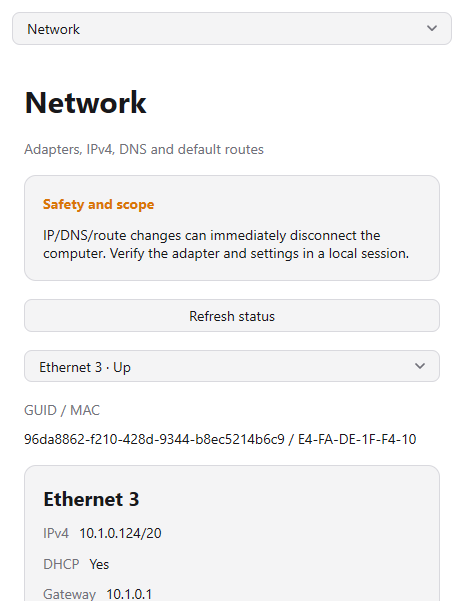
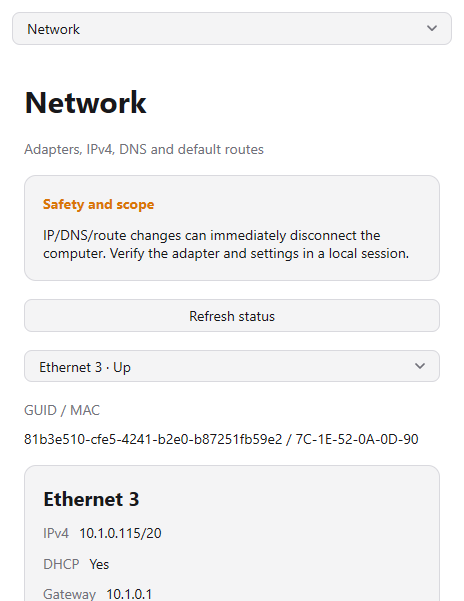
docs: verify v1.12.2 release packages and refresh tag screenshots

Changed region(s): [[0.0302, 0.7188, 0.9052, 0.7488], [0.2716, 0.8686, 0.3017, 0.8985]]

diff --git a/docs/AUDIT.md b/docs/AUDIT.md
@@ -1,7 +1,18 @@
 # Current audit and validation / 当前审计与验证
 
-当前发布版本：**1.12.1**。Windows 候选和正式发布验证均通过；历史版本记录保留。本页区分新增功能的源码审查、候选验证与发布下载校验。
+当前发布版本：**1.12.2**。Windows 候选和正式发布验证均通过；历史版本记录保留。本页区分新增功能的源码审查、候选验证与发布下载校验。
 This page summarizes the current implementation and completed validation.
+
+## Verified release 1.12.2 / 简化界面与关闭选择发布
+
+[Successful tag workflow](https://github.com/logdns/Win-XinAi-De-Tools/actions/runs/39018090724) and [published v1.12.2 release](https://github.com/logdns/Win-XinAi-De-Tools/releases/tag/v1.12.2), verified 2026-10-17:
+
+- Immutable tag commit: `bd7fbe21ff4f92f84a07e5135c2c1d8a8628332c`. This adds only candidate validation documentation and real screenshots to the tested source. Earlier tags remain unchanged; post-release screenshots/records do not retarget this tag.
+- All release gates pass again: 154 .NET tests on Windows x64 and native ARM64, 2 opted-in x64 firewall integration tests, 38 Go test functions, 13 installer contracts, 420 bilingual resources, native helpers and pinned-Go/NuGet dependency checks. All ten packages build.
+- Both actual x64 installer lifecycles, native ARM64 MyGo Start Menu and real Finish-page launch, default-Cancel and explicit-Exit/engine cleanup, independent shortcut/reinstall/uninstall cases, and side-by-side preservation pass. Both MyGo native architectures verify work-area fit, native controls, busy veto, maximized-state preservation, Cancel/hide/show/Exit HWND interaction, 144 view combinations, 20 scrolled captures and four bilingual compact/standard close-choice captures. WinUI repeats 180 native view combinations.
+- Release is latest, neither draft nor prerelease, with exactly 11 non-empty assets: five portable ZIPs, five EXE installers and SHA256SUMS.txt. Downloaded every asset and ran `python3 scripts/verify-release.py artifacts/release-v1.12.2 1.12.2`: all ten SHA-256 hashes, five ZIP CRCs, frontend/engine PE architectures and administrator manifests, version/production identifiers, complete runtimes, documentation and original licenses pass. Checksums do not replace code signing.
+- Both READMEs now use the tag run's actual Windows captures, including the uncluttered overview, compact layout and on-demand close dialog. Native content captures exclude the OS title bar. No invented host state or mockup is presented as a real screenshot.
+- This is focused source review plus functional/package validation, not a full penetration test. No real network reset, Hyper-V mutation or reboot is performed. Physical devices, mixed-monitor DPI, accessibility, secure-desktop UAC and recovery remain manual acceptance.
 
 ## 1.12.2 focused chrome and close-flow review / 窗口简化专项复核
 

diff --git a/docs/MYGO.md b/docs/MYGO.md
@@ -98,3 +98,6 @@ Regression coverage adds close-choice transitions, native default-Cancel/hide/ex
 
 
 The v1.12.2 [completed Windows candidate](https://github.com/logdns/Win-XinAi-De-Tools/actions/runs/39017169207) verifies the new close flow on both x64 and native ARM64, including installed Start Menu/Finish launches and engine cleanup. Actual bilingual screenshots cover standard and compact dialogs. Canceling X preserves a maximized window. Localized buttons wrap within a bounded native dialog; backdrop clicks, Enter and Escape cancel safely. See AUDIT.md for the complete validation and remaining physical-device limits.
+
+
+v1.12.2 is published for both editions. Its [successful tag workflow](https://github.com/logdns/Win-XinAi-De-Tools/actions/runs/39018090724) repeats the native x64/ARM64 close, installer and cleanup gates. Both READMEs now use that tag run's actual screenshots; all ten published packages were downloaded and verified against SHA256SUMS.txt. Earlier release tags are unchanged.

diff --git a/README.md b/README.md
@@ -49,7 +49,7 @@ System configuration changes require administrator privileges. Enable the legacy
 
 ## Interface
 
-Actual Windows x64 screenshots from the [v1.12.2 candidate UI verification](https://github.com/logdns/Win-XinAi-De-Tools/actions/runs/39017169207). System status and available controls depend on the host configuration. MyGo now shows dedicated feature pages, not an operation-selector/JSON console. The adapter settings screenshot is an unsubmitted Static draft populated from a DHCP adapter; no network configuration was changed.
+Actual Windows x64 screenshots from the [v1.12.2 release UI verification](https://github.com/logdns/Win-XinAi-De-Tools/actions/runs/39018090724). System status and available controls depend on the host configuration. MyGo now shows dedicated feature pages, not an operation-selector/JSON console. The adapter settings screenshot is an unsubmitted Static draft populated from a DHCP adapter; no network configuration was changed.
 
 ### Dashboard
 

diff --git a/README.zh-CN.md b/README.zh-CN.md
@@ -49,7 +49,7 @@
 
 ## 界面
 
-以下为 [v1.12.2 候选构建界面验证](https://github.com/logdns/Win-XinAi-De-Tools/actions/runs/39017169207)生成的 Windows x64 实际软件截图。系统状态与可用操作取决于主机配置。MyGo 现为专用功能界面，不再是操作下拉框与 JSON 控制台。网卡设置截图是从实际 DHCP 网卡回填后、尚未提交的 Static 草稿，未修改主机网络。
+以下为 [v1.12.2 正式发布构建界面验证](https://github.com/logdns/Win-XinAi-De-Tools/actions/runs/39018090724)生成的 Windows x64 实际软件截图。系统状态与可用操作取决于主机配置。MyGo 现为专用功能界面，不再是操作下拉框与 JSON 控制台。网卡设置截图是从实际 DHCP 网卡回填后、尚未提交的 Static 草稿，未修改主机网络。
 
 ### 概览
 
